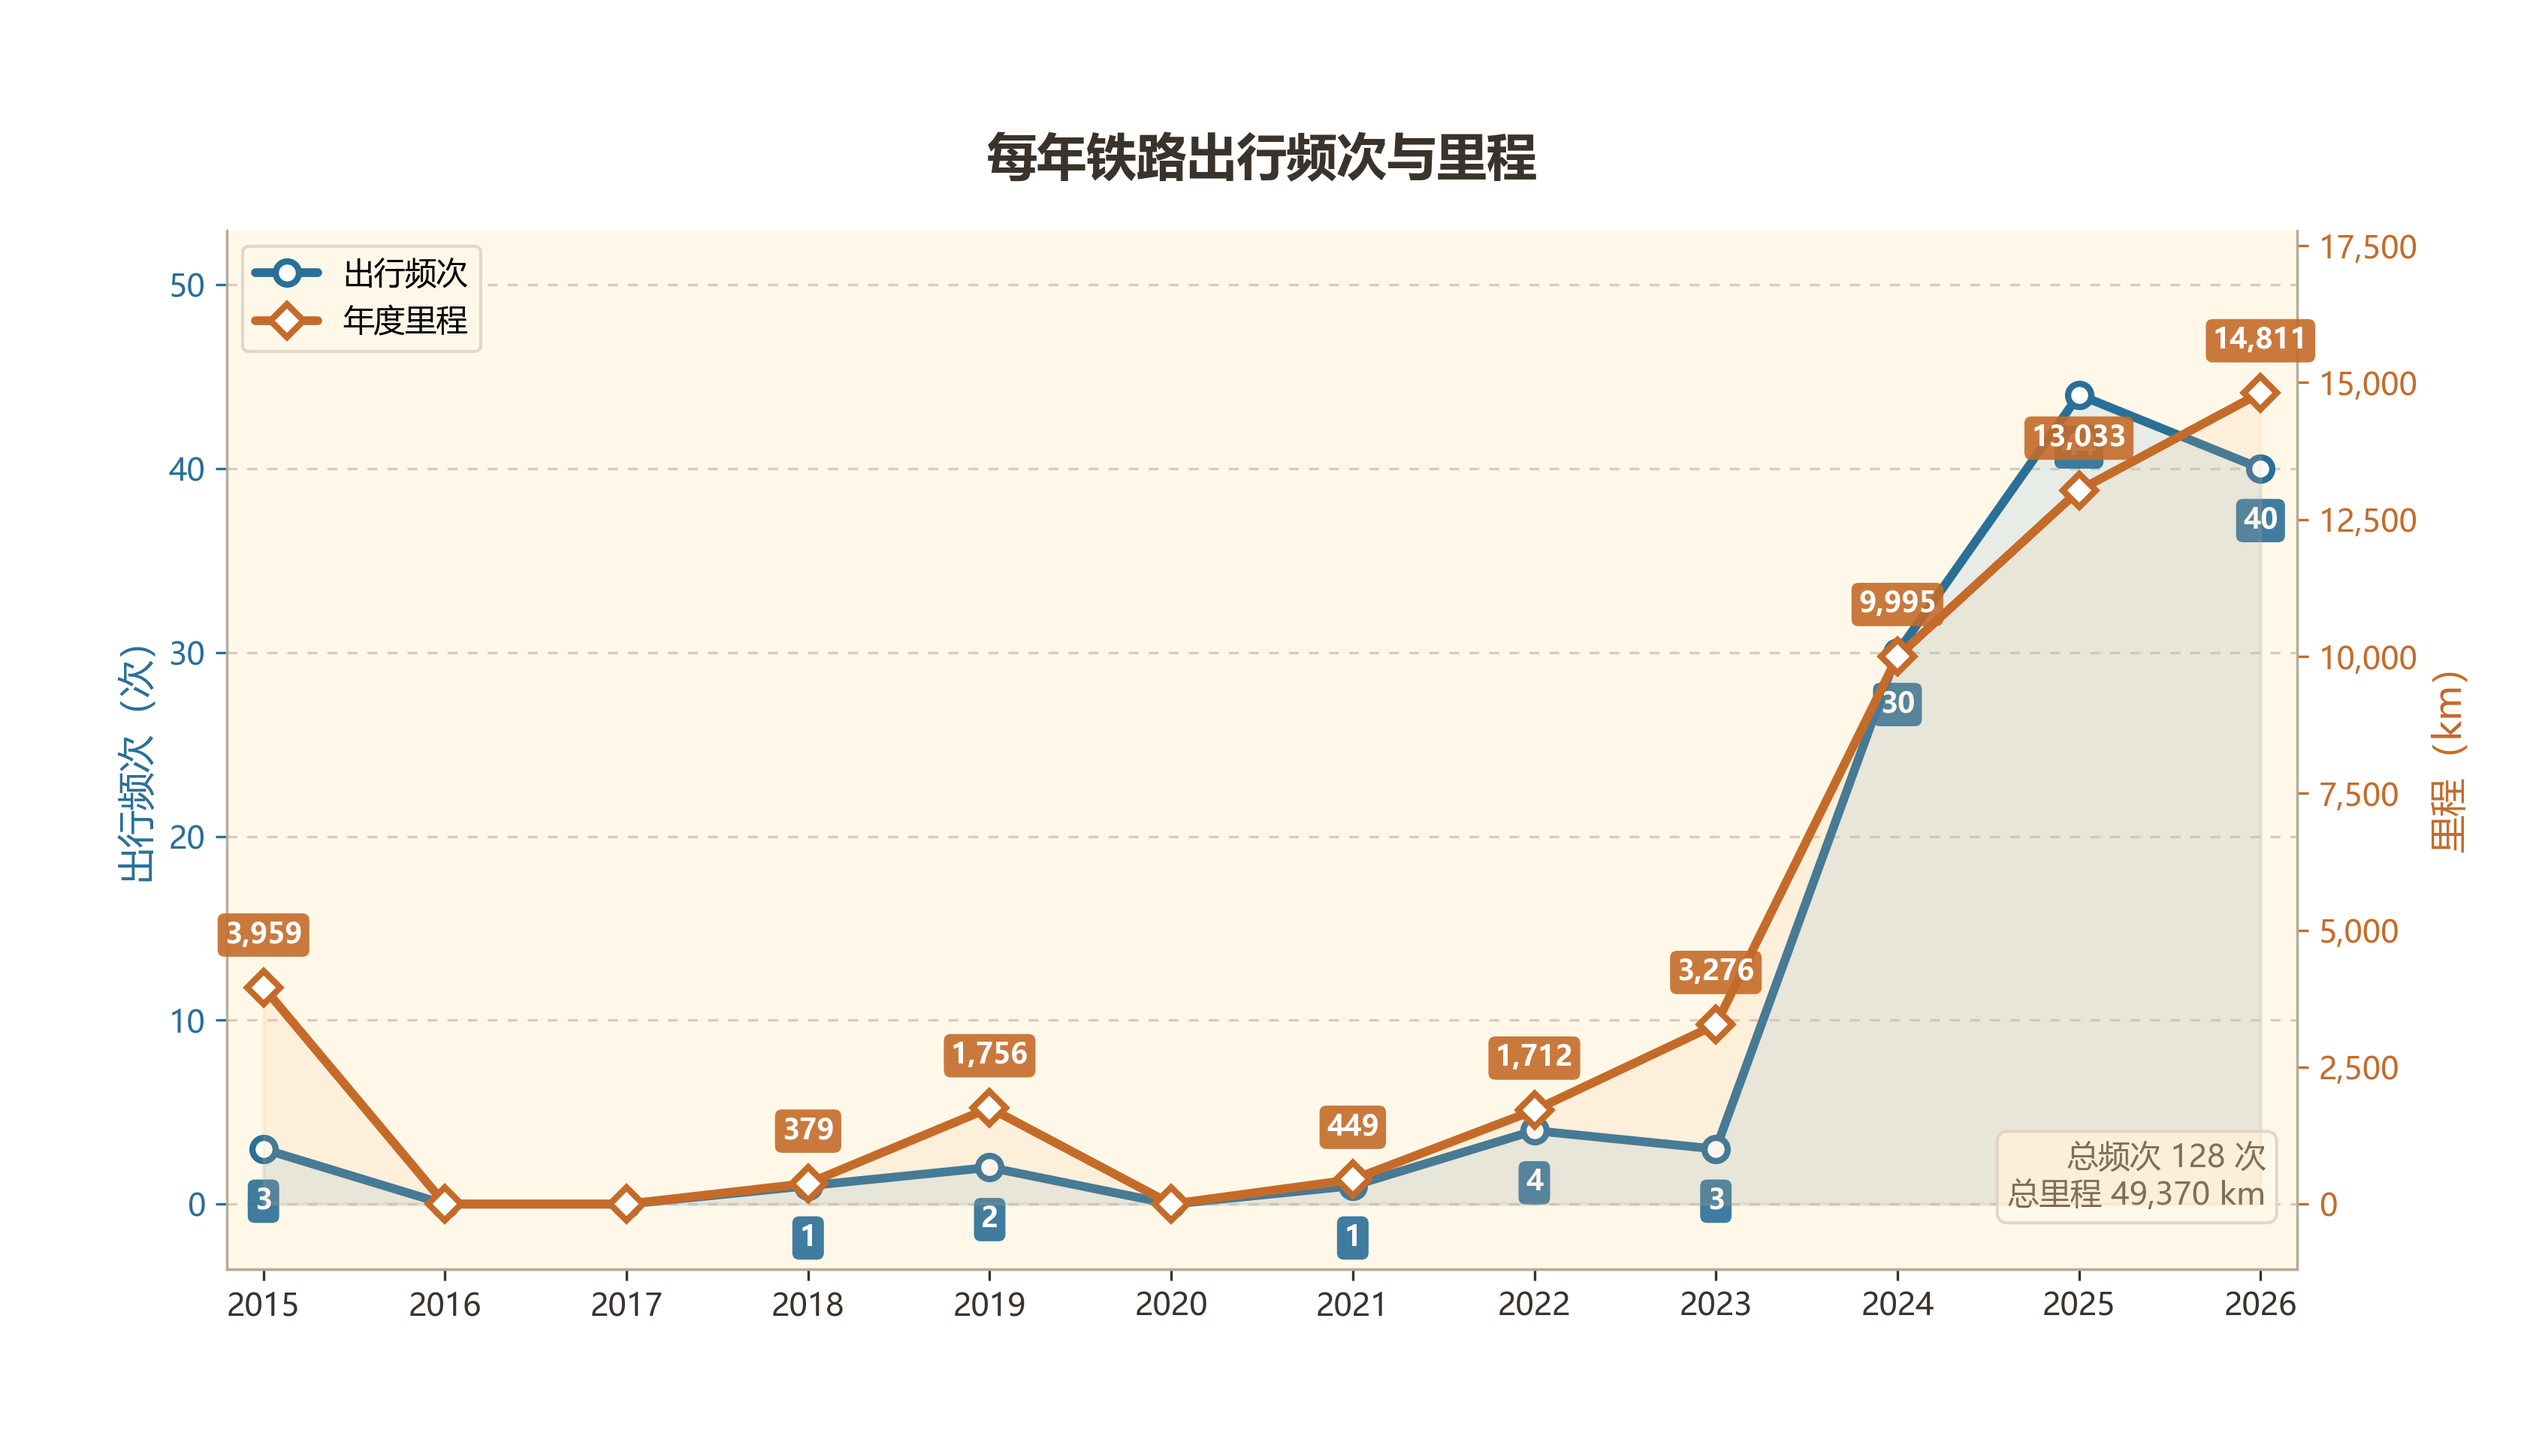
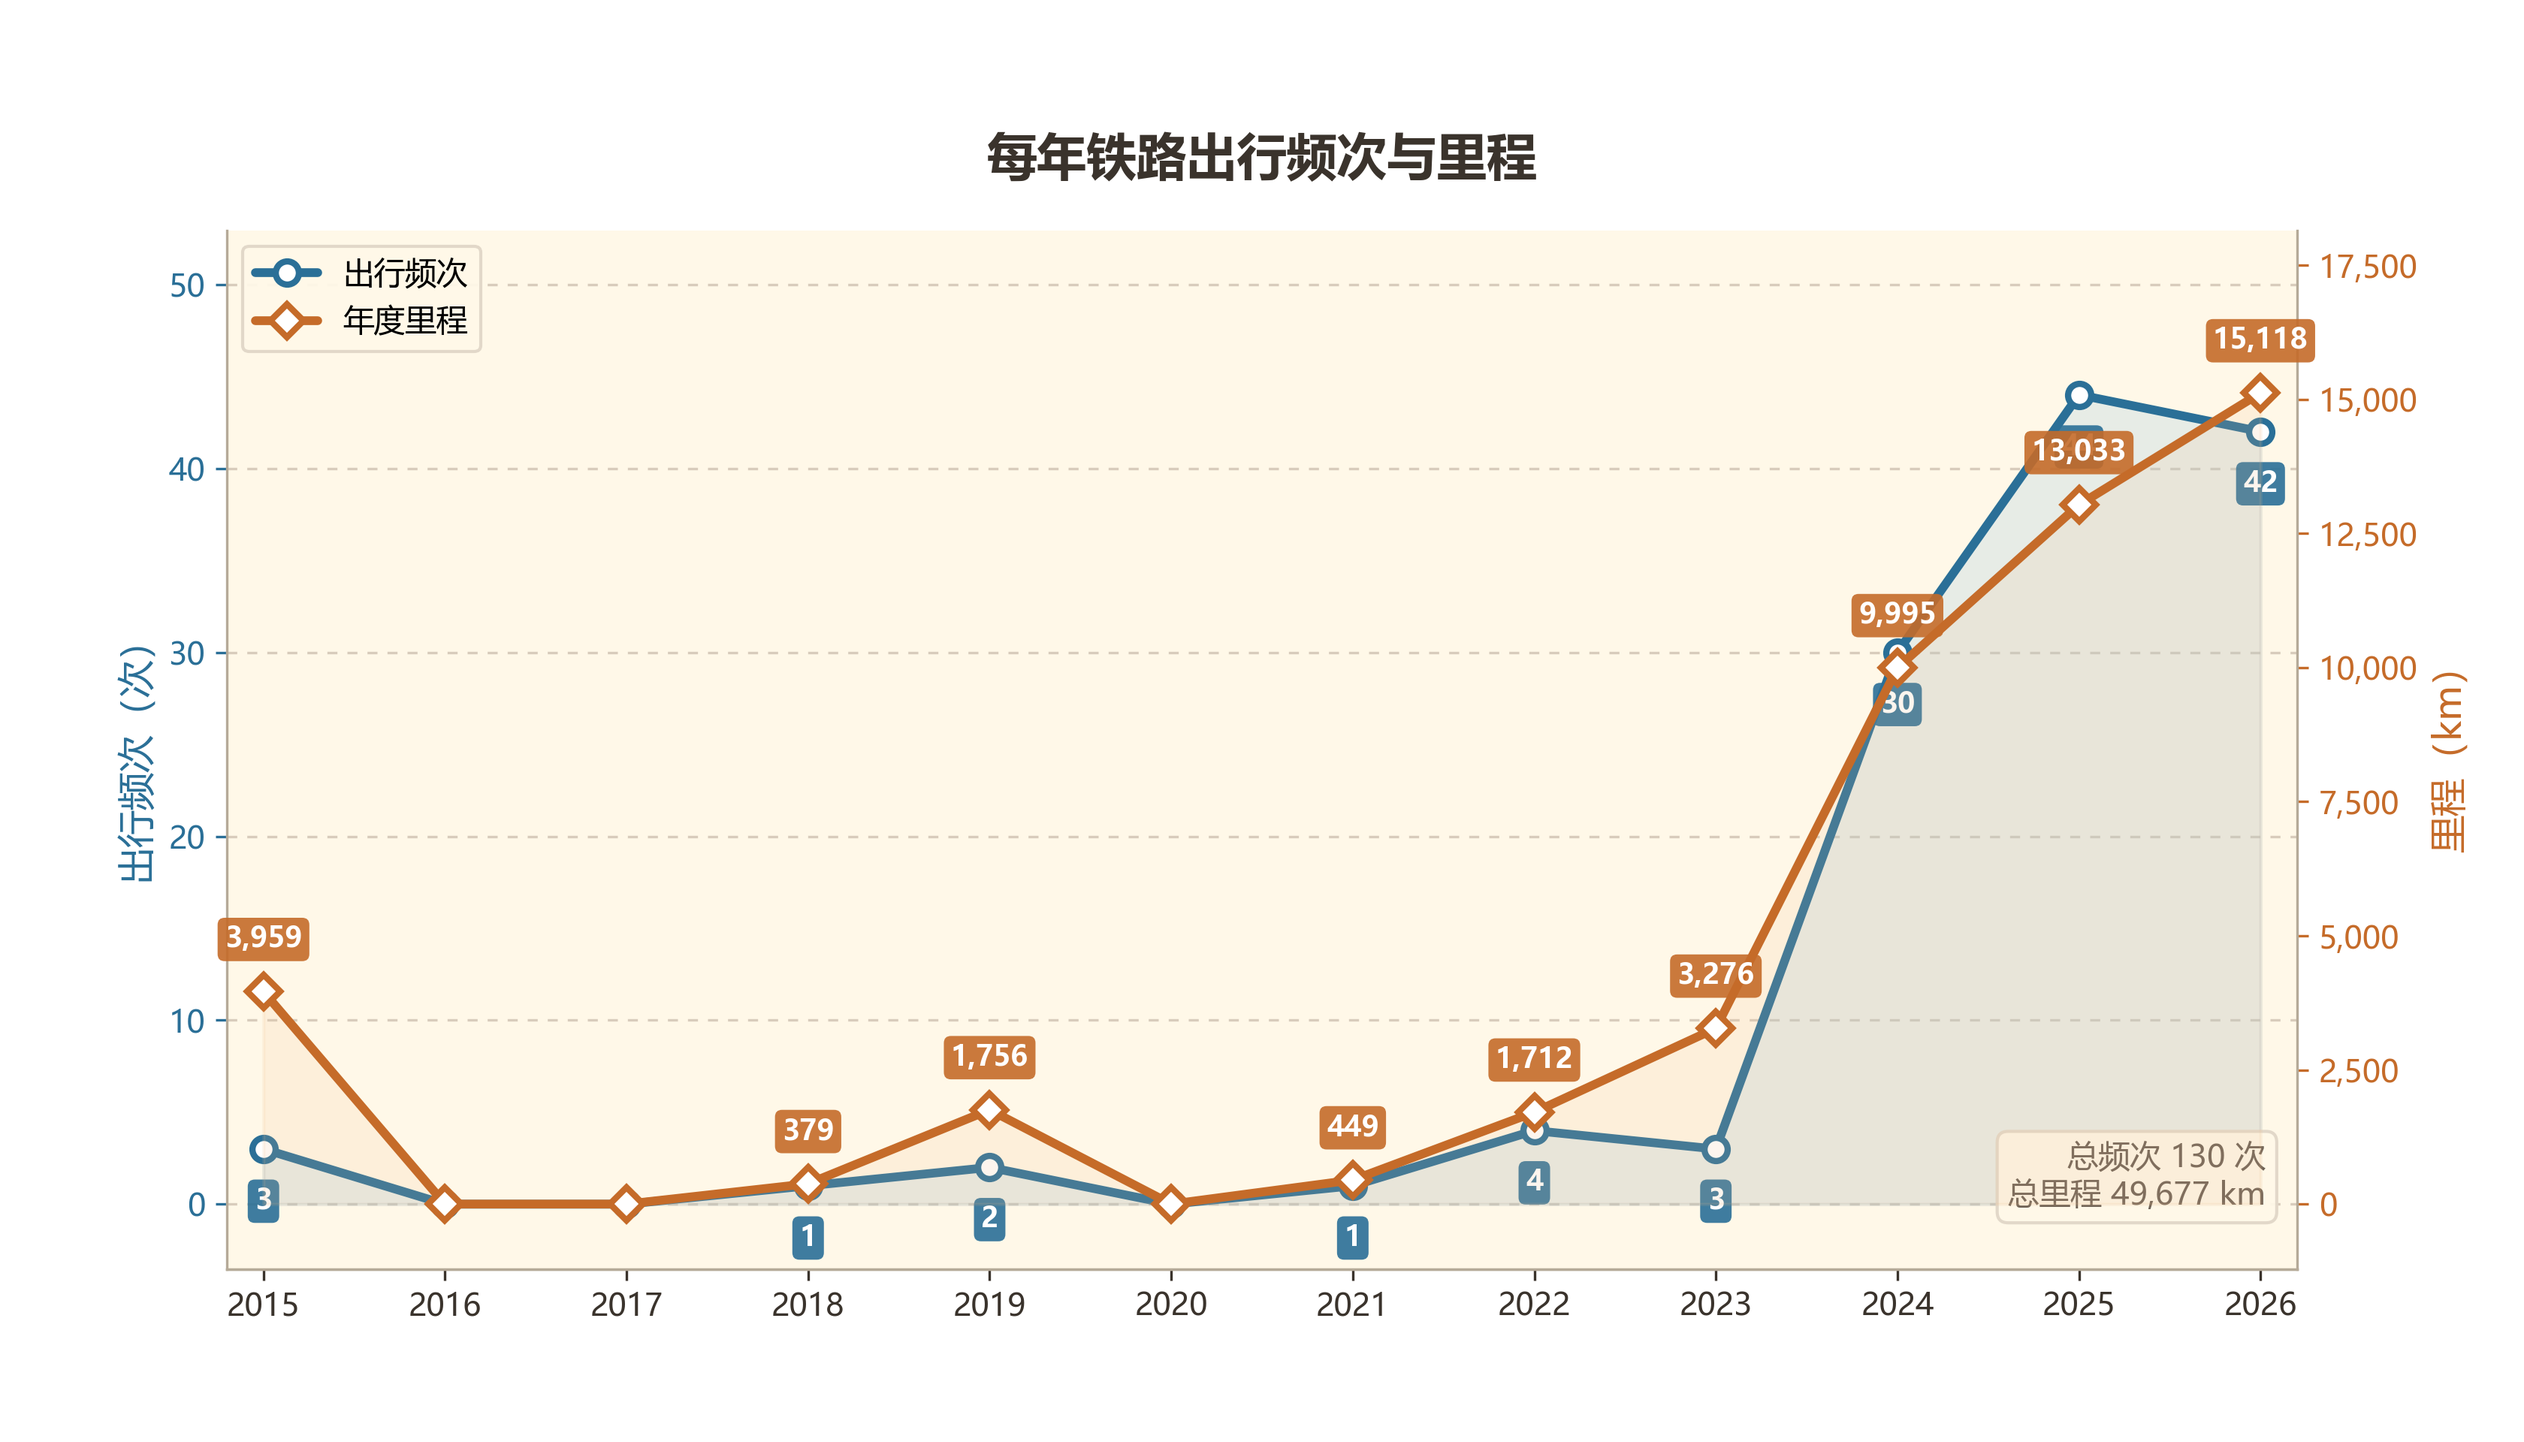
commit

diff --git a/draw.py b/draw.py
@@ -40,8 +40,8 @@ TOP_MARGIN = 0.84
 
 CITY_DATA = {
     "years": ["大学前", "2022-2023", "2024", "2025", "2026"],
-    "new_cities": [19, 2, 21, 21, 23],
-    "cumulative_cities": [19, 21, 42, 63, 86],
+    "new_cities": [19, 2, 21, 21, 24],
+    "cumulative_cities": [19, 21, 42, 63, 87],
 }
 
 

diff --git a/文章统计.md b/文章统计.md
@@ -1,12 +1,12 @@
 # 文章字数统计（游记 + 指定文章）
 
-统计时间： 2026-07-31 15:57:40
+统计时间： 2026-08-02 23:38:06
 
 ## 总体统计
 
 - 文章总数： 33 篇
-- 总字数： 140.2k
-- 平均字数： 4247 字/篇
+- 总字数： 140.3k
+- 平均字数： 4250 字/篇
 
 ## 按发表年份统计
 
@@ -14,7 +14,7 @@
 |------|------|--------|----------|
 | 2020 | 1 | 6100 | 6100 |
 | 2023 | 1 | 13000 | 13000 |
-| 2024 | 11 | 37260 | 3387 |
+| 2024 | 11 | 37360 | 3396 |
 | 2025 | 13 | 52300 | 4023 |
 | 2026 | 7 | 31500 | 4500 |
 
@@ -35,13 +35,13 @@
 | 11 | “人生短短几个秋啊，不醉不罢休”：在洛阳、郑州的中秋 | 4k | 2024-09-19 | 2026-07-16 | [查看文章](https://kangaroogao.com/posts/4186/) |
 | 12 | 潮汕初探 | 1.2k | 2024-09-20 | 2026-07-12 | [查看文章](https://kangaroogao.com/posts/52b1/) |
 | 13 | 今古一相接，长歌怀旧游：国庆出游杂记 | 4.7k | 2024-10-07 | 2026-07-12 | [查看文章](https://kangaroogao.com/posts/786/) |
-| 14 | 行旅杂记 | 7.1k | 2024-11-15 | 2026-07-27 | [查看文章](https://kangaroogao.com/posts/9e84/) |
+| 14 | 行旅杂记 | 7.2k | 2024-11-15 | 2026-08-02 | [查看文章](https://kangaroogao.com/posts/9e84/) |
 | 15 | 清明游记：枣庄、徐州、淮北 | 6.3k | 2025-04-10 | 2026-07-16 | [查看文章](https://kangaroogao.com/posts/b857/) |
 | 16 | 小城小记1：六安 | 1.5k | 2025-06-24 | 2026-07-27 | [查看文章](https://kangaroogao.com/posts/83be/) |
 | 17 | 北京行迹 | 10.1k | 2025-08-01 | 2026-07-16 | [查看文章](https://kangaroogao.com/posts/1502/) |
-| 18 | 回家路上2：泾县、福州、龙岩、赣州 | 10.5k | 2025-08-06 | 2026-07-27 | [查看文章](https://kangaroogao.com/posts/99aa/) |
-| 19 | 大城小事2：深圳（兼记东莞） | 1.6k | 2025-08-06 | 2026-07-27 | [查看文章](https://kangaroogao.com/posts/a78e/) |
-| 20 | 大城小事1：广州 | 1.3k | 2025-08-06 | 2026-07-27 | [查看文章](https://kangaroogao.com/posts/8478/) |
+| 18 | 大城小事2：深圳（兼记东莞） | 1.6k | 2025-08-06 | 2026-07-27 | [查看文章](https://kangaroogao.com/posts/a78e/) |
+| 19 | 大城小事1：广州 | 1.3k | 2025-08-06 | 2026-07-27 | [查看文章](https://kangaroogao.com/posts/8478/) |
+| 20 | 回家路上2：泾县、福州、龙岩、赣州 | 10.5k | 2025-08-06 | 2026-07-27 | [查看文章](https://kangaroogao.com/posts/99aa/) |
 | 21 | 保研夏令营期间的行走 | 1.9k | 2025-08-06 | 2026-07-16 | [查看文章](https://kangaroogao.com/posts/3321/) |
 | 22 | 湛江碎影 | 2.7k | 2025-08-24 | 2026-07-16 | [查看文章](https://kangaroogao.com/posts/a7ec/) |
 | 23 | 小城小记2：滁州、马鞍山 | 3.1k | 2025-09-15 | 2026-07-16 | [查看文章](https://kangaroogao.com/posts/cea0/) |
@@ -94,7 +94,7 @@
 | 24 | 长安一片月，吹梦到西洲：西安一游，兼记咸阳运城 | 5.5k | 2024-07-15 | 2026-07-16 | [查看文章](https://kangaroogao.com/posts/439b/) |
 | 25 | 雷州，雷州 | 6.1k | 2020-08-22 | 2026-07-16 | [查看文章](https://kangaroogao.com/posts/4cde/) |
 | 26 | 清明游记：枣庄、徐州、淮北 | 6.3k | 2025-04-10 | 2026-07-16 | [查看文章](https://kangaroogao.com/posts/b857/) |
-| 27 | 行旅杂记 | 7.1k | 2024-11-15 | 2026-07-27 | [查看文章](https://kangaroogao.com/posts/9e84/) |
+| 27 | 行旅杂记 | 7.2k | 2024-11-15 | 2026-08-02 | [查看文章](https://kangaroogao.com/posts/9e84/) |
 | 28 | 走河西 | 7.3k | 2026-07-20 | 2026-07-28 | [查看文章](https://kangaroogao.com/posts/c866/) |
 | 29 | 小城小记3：寿县、阜阳、周口、漯河、驻马店、信阳、孝感 | 7.4k | 2025-10-03 | 2026-07-23 | [查看文章](https://kangaroogao.com/posts/e4f4/) |
 | 30 | 回家路上3：永州、柳州、来宾、贵港、玉林 | 8.2k | 2026-02-12 | 2026-07-16 | [查看文章](https://kangaroogao.com/posts/526f/) |

diff --git a/游记统计.md b/游记统计.md
@@ -1,18 +1,18 @@
 # 游记类别字数统计
 
-统计时间： 2026-07-31 15:57:35
+统计时间： 2026-08-02 23:38:01
 
 ## 总体统计
 
 - 文章总数： 29 篇
-- 总字数： 114.9k
-- 平均字数： 3960 字/篇
+- 总字数： 115.0k
+- 平均字数： 3964 字/篇
 
 ## 按发表年份统计
 
 | 年份 | 篇数 | 总字数 | 平均字数 |
 |------|------|--------|----------|
-| 2024 | 10 | 33860 | 3386 |
+| 2024 | 10 | 33960 | 3396 |
 | 2025 | 12 | 49500 | 4125 |
 | 2026 | 7 | 31500 | 4500 |
 
@@ -29,13 +29,13 @@
 | 7 | “人生短短几个秋啊，不醉不罢休”：在洛阳、郑州的中秋 | 4k | 2024-09-19 | 2026-07-16 | [查看文章](https://kangaroogao.com/posts/4186/) |
 | 8 | 潮汕初探 | 1.2k | 2024-09-20 | 2026-07-12 | [查看文章](https://kangaroogao.com/posts/52b1/) |
 | 9 | 今古一相接，长歌怀旧游：国庆出游杂记 | 4.7k | 2024-10-07 | 2026-07-12 | [查看文章](https://kangaroogao.com/posts/786/) |
-| 10 | 行旅杂记 | 7.1k | 2024-11-15 | 2026-07-27 | [查看文章](https://kangaroogao.com/posts/9e84/) |
+| 10 | 行旅杂记 | 7.2k | 2024-11-15 | 2026-08-02 | [查看文章](https://kangaroogao.com/posts/9e84/) |
 | 11 | 清明游记：枣庄、徐州、淮北 | 6.3k | 2025-04-10 | 2026-07-16 | [查看文章](https://kangaroogao.com/posts/b857/) |
 | 12 | 小城小记1：六安 | 1.5k | 2025-06-24 | 2026-07-27 | [查看文章](https://kangaroogao.com/posts/83be/) |
 | 13 | 北京行迹 | 10.1k | 2025-08-01 | 2026-07-16 | [查看文章](https://kangaroogao.com/posts/1502/) |
-| 14 | 回家路上2：泾县、福州、龙岩、赣州 | 10.5k | 2025-08-06 | 2026-07-27 | [查看文章](https://kangaroogao.com/posts/99aa/) |
-| 15 | 大城小事2：深圳（兼记东莞） | 1.6k | 2025-08-06 | 2026-07-27 | [查看文章](https://kangaroogao.com/posts/a78e/) |
-| 16 | 大城小事1：广州 | 1.3k | 2025-08-06 | 2026-07-27 | [查看文章](https://kangaroogao.com/posts/8478/) |
+| 14 | 大城小事2：深圳（兼记东莞） | 1.6k | 2025-08-06 | 2026-07-27 | [查看文章](https://kangaroogao.com/posts/a78e/) |
+| 15 | 大城小事1：广州 | 1.3k | 2025-08-06 | 2026-07-27 | [查看文章](https://kangaroogao.com/posts/8478/) |
+| 16 | 回家路上2：泾县、福州、龙岩、赣州 | 10.5k | 2025-08-06 | 2026-07-27 | [查看文章](https://kangaroogao.com/posts/99aa/) |
 | 17 | 保研夏令营期间的行走 | 1.9k | 2025-08-06 | 2026-07-16 | [查看文章](https://kangaroogao.com/posts/3321/) |
 | 18 | 湛江碎影 | 2.7k | 2025-08-24 | 2026-07-16 | [查看文章](https://kangaroogao.com/posts/a7ec/) |
 | 19 | 小城小记2：滁州、马鞍山 | 3.1k | 2025-09-15 | 2026-07-16 | [查看文章](https://kangaroogao.com/posts/cea0/) |
@@ -85,7 +85,7 @@
 | 21 | 江南江北送君归：从扬州到镇江 | 4.9k | 2024-05-04 | 2026-07-13 | [查看文章](https://kangaroogao.com/posts/8176/) |
 | 22 | 长安一片月，吹梦到西洲：西安一游，兼记咸阳运城 | 5.5k | 2024-07-15 | 2026-07-16 | [查看文章](https://kangaroogao.com/posts/439b/) |
 | 23 | 清明游记：枣庄、徐州、淮北 | 6.3k | 2025-04-10 | 2026-07-16 | [查看文章](https://kangaroogao.com/posts/b857/) |
-| 24 | 行旅杂记 | 7.1k | 2024-11-15 | 2026-07-27 | [查看文章](https://kangaroogao.com/posts/9e84/) |
+| 24 | 行旅杂记 | 7.2k | 2024-11-15 | 2026-08-02 | [查看文章](https://kangaroogao.com/posts/9e84/) |
 | 25 | 走河西 | 7.3k | 2026-07-20 | 2026-07-28 | [查看文章](https://kangaroogao.com/posts/c866/) |
 | 26 | 小城小记3：寿县、阜阳、周口、漯河、驻马店、信阳、孝感 | 7.4k | 2025-10-03 | 2026-07-23 | [查看文章](https://kangaroogao.com/posts/e4f4/) |
 | 27 | 回家路上3：永州、柳州、来宾、贵港、玉林 | 8.2k | 2026-02-12 | 2026-07-16 | [查看文章](https://kangaroogao.com/posts/526f/) |

diff --git a/source/_posts/行旅杂记.md b/source/_posts/行旅杂记.md
@@ -133,9 +133,11 @@ date: 2024-11-15 00:00:00
 
 本科期间共新到67个城市。
 
+8月1日至2日，利用周末时间到张家口市区以及蔚县、宣化一游。
+
 以上各篇游记的简要行程安排已整理到了[《行程轨迹汇总》](../dbd5/)。
 
-至此，共计去过21个省级行政区，86个城市[^20]：
+至此，共计去过21个省级行政区，87个城市[^20]：
 - 省
   - 广东（15/21）：湛江、广州、茂名、东莞、河源、惠州、阳江、江门、佛山、中山、珠海、韶关、揭阳、潮州、深圳
   - 贵州（5/9）：贵阳、黔南、黔东南、安顺、铜仁
@@ -150,7 +152,7 @@ date: 2024-11-15 00:00:00
   - 河南（7/18）：洛阳、郑州、周口、漯河、驻马店、信阳、新乡
   - 山东（1/16）：枣庄
   - 福建（2/9）：福州、龙岩
-  - 河北（2/11）：承德、保定、秦皇岛
+  - 河北（4/11）：承德、保定、秦皇岛、张家口
   - 辽宁（1/14）：葫芦岛
   - 甘肃（8/14）：嘉峪关、酒泉、天水、定西、兰州、临夏、武威、张掖
 - 直辖市
@@ -301,10 +303,12 @@ date: 2024-11-15 00:00:00
 ||合肥南|南京南|G7434|157|
 ||南京南|合肥|G469|154|
 ||合肥|北京丰台|Z227|1032|
+|2026.8|北京丰台|张家口|Z183|166|
+||宣化北|清河|D1050|141|
 
 {% endhideToggle %}
 
-- 小计：128次（普铁42次，高铁/动车86次），49370 km（普铁18219 km，高铁/动车31151 km），124个车站，64个城市 [^18]
+- 小计：130次（普铁43次，高铁/动车87次），49677 km（普铁18385 km，高铁/动车31292 km），126个车站，65个城市 [^18]
 
 {% hideToggle 展开车站列表 %}
 
@@ -375,6 +379,7 @@ date: 2024-11-15 00:00:00
 |酒泉|酒泉南、酒泉、敦煌|
 |嘉峪关|嘉峪关、嘉峪关南|
 |南京|南京南|
+|张家口|张家口、宣化北|
 
 {% endhideToggle %}
 

diff --git a/source/journey/index.md b/source/journey/index.md
@@ -2,7 +2,7 @@
 title: Journey
 ---
 
-- [行旅杂记](../posts/9e84/)（7.1k）
+- [行旅杂记](../posts/9e84/)（7.2k）
 - [行程轨迹汇总](../posts/dbd5/)
 
 - 常驻城市

diff --git a/renew.md b/renew.md
@@ -931,3 +931,6 @@
 
 7.31
    1. 蒋介石在中华门下的独白
+
+8.1
+   1. 加张家口
